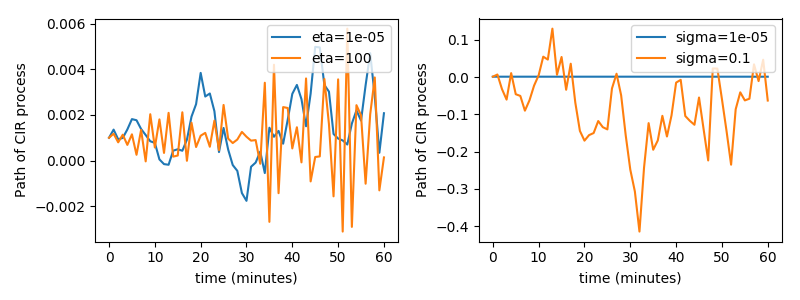
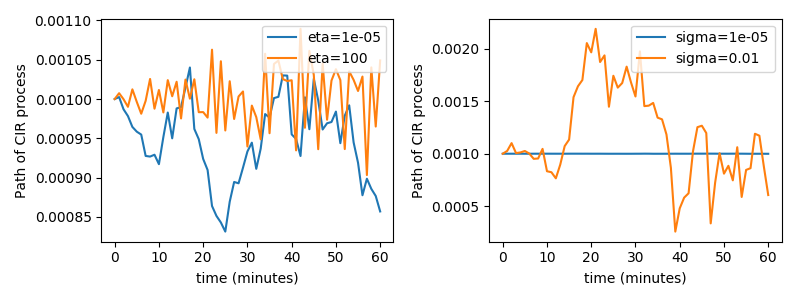
changes

diff --git a/module7/optimal_execution.py b/module7/optimal_execution.py
@@ -12,11 +12,11 @@ alpha = 1e-3  # terminal liquidation penalty
 
 k_eta = 10  # mean reversion rate of k
 k_mu = 1e-3  # long running mean of k
-k_sigma = 1.5e-3  # vol of k
+k_sigma = 1.e-5  # vol of k
 
 b_eta = 10  # mean reversion rate of b
 b_mu = 1e-3  # long running mean of b
-b_sigma = 3e-3  # vol of b
+b_sigma = 2e-5  # vol of b
 
 
 def run_almgren_chriss_with_constant_pi(alpha=alpha, phi=phi, T=T, k_mu=k_mu, b_mu=b_mu, s_sigma=s_sigma):
@@ -62,9 +62,7 @@ def calculate_stochastic_path(mu, eta, sigma):
     pi_path[0] = mu
 
     for i in range(1, t + 1):
-        # tT = (t - i) / t
-        # pi_path[i] = mu if i == 0 else mu + sigma * np.sqrt((np.exp(-2 * eta * tT)) / (2 * eta)) * w[i] * np.sqrt(i/60)
-        pi_path[i] = pi_path[i - 1] + (eta * mu - eta * pi_path[i - 1]) / 60. + sigma * w[i] * np.sqrt(i / 60.)
+        pi_path[i] = pi_path[i - 1] + (eta * mu - eta * pi_path[i - 1]) / 60. + sigma * w[i] * np.sqrt(i / 60.) * np.sqrt(pi_path[i-1])
     return pi_path
 
 
